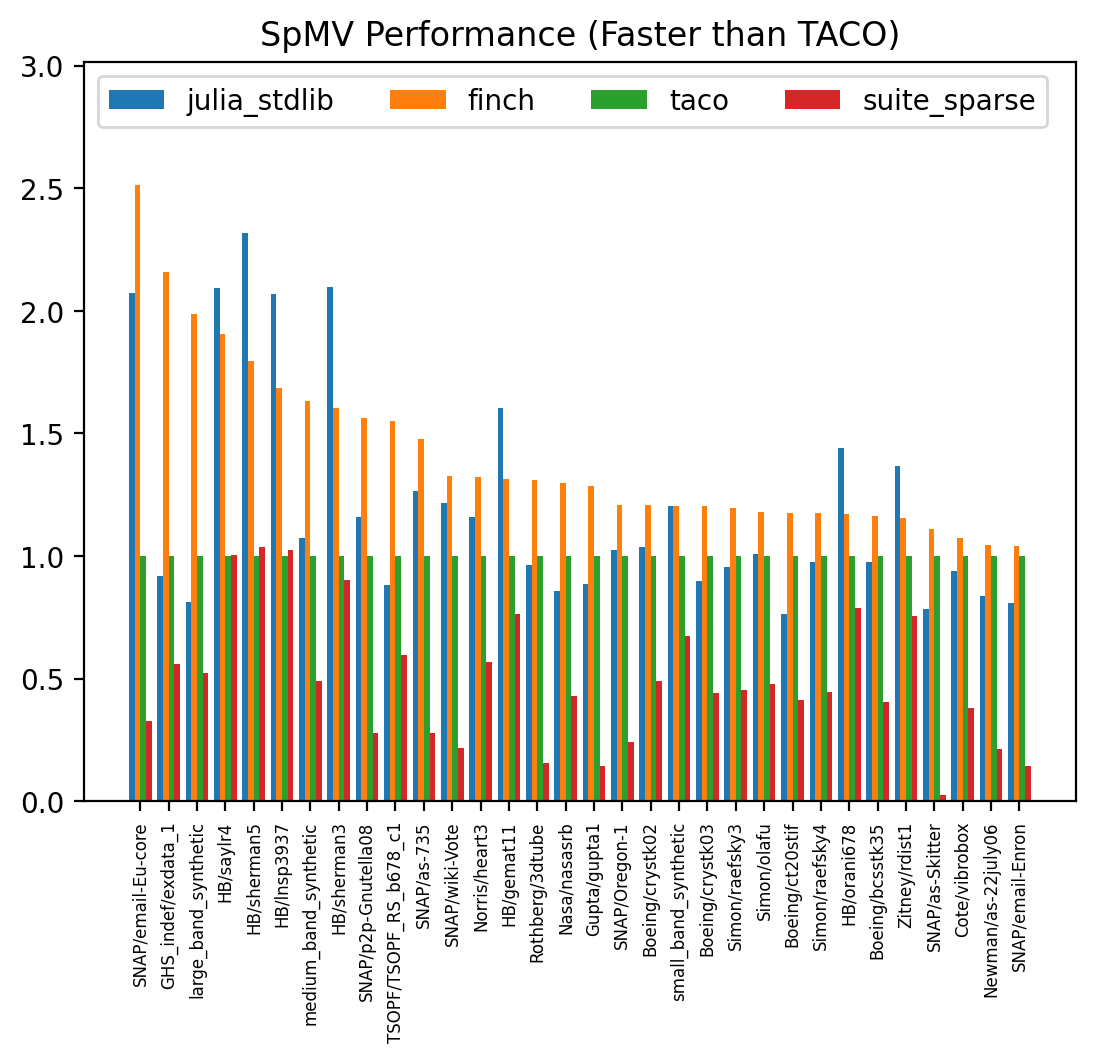
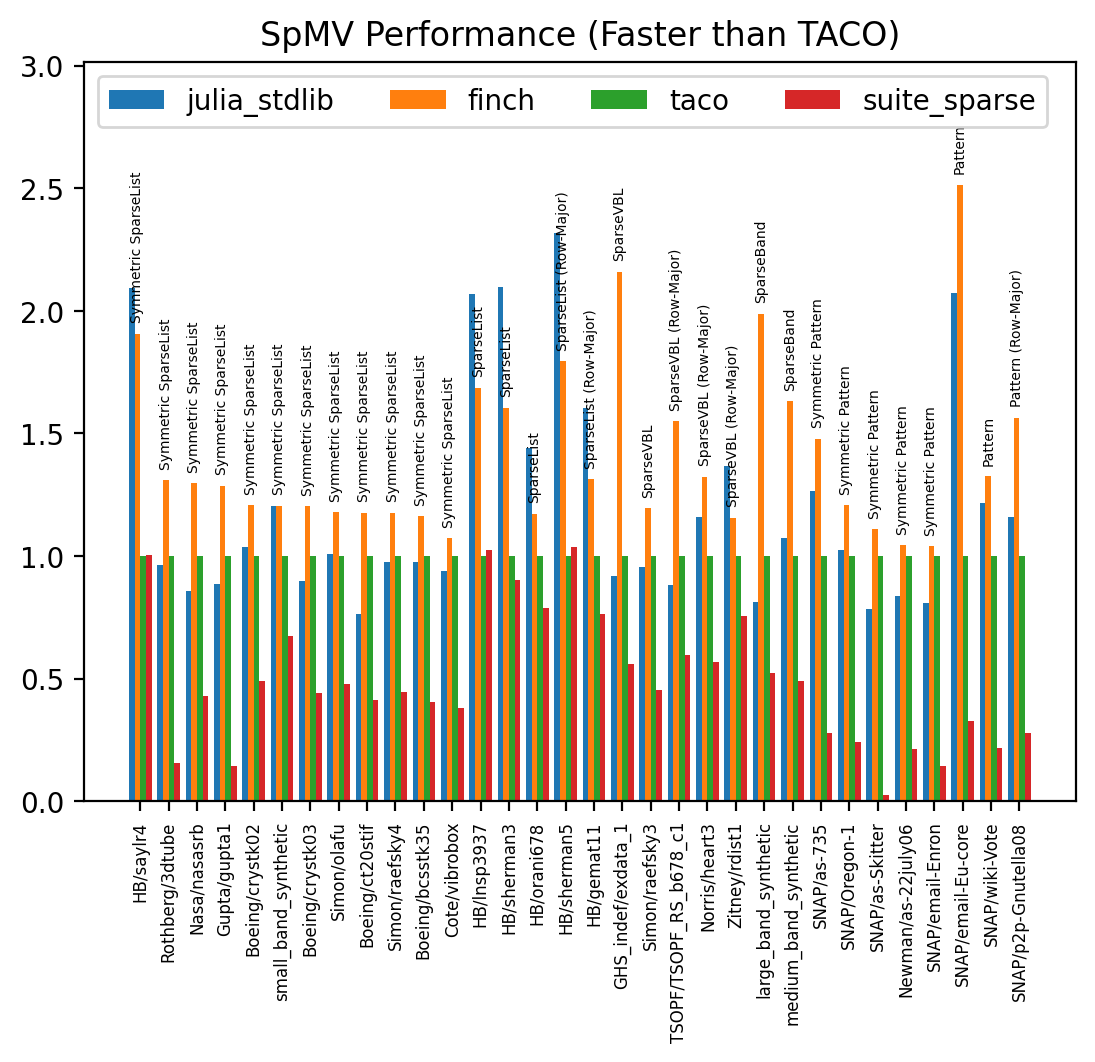
A few more plots

diff --git a/spmv/chart.py b/spmv/chart.py
@@ -7,56 +7,82 @@ from collections import defaultdict
 
 RESULTS_FILE_PATH = "spmv_results_lanka.json"
 CHARTS_DIRECTORY = "spmv/charts_lanka2/"
-
-def sorted_idx_order(list):
-    return sorted(range(len(list)), key=lambda i: list[i], reverse=True)
-
-def rearrange_by_idx_order(list, idxs):
-    return sorted(list, key=lambda x: idxs.index(list.index(x)))
-
-def find_first_idx_below_value(reverse_sorted_list, value):
-    for i in range(len(reverse_sorted_list)):
-        if reverse_sorted_list[i] < value:
-            return i
-    return -1
+FORMAT_ORDER = {
+    "finch": -1,
+    "finch_unsym": -2,
+    "finch_unsym_row_maj": -3,
+    "finch_vbl": -4,
+    "finch_vbl_unsym": -5,
+    "finch_vbl_unsym_row_maj": -6,
+    "finch_band": -7,
+    "finch_band_unsym": -8,
+    "finch_band_unsym_row_maj": -9,
+    "finch_pattern": -10,
+    "finch_pattern_unsym": -11,
+    "finch_pattern_unsym_row_maj": -12,
+    "finch_point": -13,
+    "finch_point_row_maj": -14,
+    "finch_point_pattern": -15,
+    "finch_point_pattern_row_maj": -16,
+}
+FORMAT_LABELS = {
+    "finch": "Symmetric SparseList",
+    "finch_unsym": "SparseList",
+    "finch_unsym_row_maj": "SparseList (Row-Major)",
+    "finch_vbl": "Symmetric SparseVBL",
+    "finch_vbl_unsym": "SparseVBL",
+    "finch_vbl_unsym_row_maj": "SparseVBL (Row-Major)",
+    "finch_band": "Symmetric SparseBand",
+    "finch_band_unsym": "SparseBand",
+    "finch_band_unsym_row_maj": "SparseBand (Row-Major)",
+    "finch_pattern": "Symmetric Pattern",
+    "finch_pattern_unsym": "Pattern",
+    "finch_pattern_unsym_row_maj": "Pattern (Row-Major)",
+    "finch_point": "SparsePoint",
+    "finch_point_row_maj": "SparsePoint (Row-Major)",
+    "finch_point_pattern": "SparsePoint Pattern",
+    "finch_point_pattern_row_maj": "SparsePoint Pattern (Row-Major)",
+}
 
 def all_formats_chart():
     results = json.load(open(RESULTS_FILE_PATH, 'r'))
-    mtxs = []
-    data = defaultdict(list)
+    data = defaultdict(lambda: defaultdict(int))
     finch_formats = get_best_finch_format()
 
     for result in results:
         mtx = result["matrix"]
         method = result["method"]
-        if mtx not in mtxs:
-            mtxs.append(mtx)
 
         if "finch" in method and finch_formats[mtx] != method:
             continue
         method = "finch" if "finch" in method else method
-        data[method].append(result["time"])
+        data[mtx][method] = result["time"]
 
-    methods = ["julia_stdlib", "finch", "taco", "suite_sparse"]
-    ref_data = data["taco"]
-    for method in methods:
-        method_data = data[method]
-        data[method] = [ref_data[i] / method_data[i] for i in range(len(ref_data))] 
+    for mtx, times in data.items():
+        ref_time = times["taco"]
+        for method, time in times.items():
+            times[method] = ref_time / time
 
+    ordered_data = sorted(data.items(), key = lambda mtx_results: mtx_results[1]["finch"], reverse=True)
+    # ordered_data = sorted(data.items(), key = lambda mtx_results: (mtx_results[1]["finch"] > 1, FORMAT_ORDER[finch_formats[mtx_results[0]]], mtx_results[1]["finch"]), reverse=True)
     faster_data = defaultdict(list)
     slower_data = defaultdict(list)
-    idx_order = sorted_idx_order(data["finch"])
-    order_speedups = rearrange_by_idx_order(data["finch"], idx_order)
-    splice_idx = find_first_idx_below_value(order_speedups, 1.0)
-    for method in methods:
-        method_data = data[method]
-        method_data = rearrange_by_idx_order(method_data, idx_order)
-        faster_data[method] = method_data[:splice_idx]
-        slower_data[method] = method_data[splice_idx:]
+    splice_idx = 0
+    for i, (mtx, times) in enumerate(ordered_data):
+        for method, time in times.items():
+            if times["finch"] > 1.0:
+                splice_idx = max(splice_idx, i + 1)
+                faster_data[method].append(time)
+            else:
+                slower_data[method].append(time)
 
-    mtxs = rearrange_by_idx_order(mtxs, idx_order)
-    make_grouped_bar_chart(methods, mtxs[:splice_idx], faster_data, labeled_groups=["finch"], title="SpMV Performance (Faster than TACO)")
-    make_grouped_bar_chart(methods, mtxs[splice_idx:], slower_data, labeled_groups=["finch"], title="SpMV Performance (Slower than TACO)")
+    ordered_mtxs = [mtx for mtx, _ in ordered_data]
+    labels = [FORMAT_LABELS[finch_formats[mtx]] for mtx, _ in ordered_data]
+    methods = ["finch", "taco", "julia_stdlib", "suite_sparse"]        
+    make_grouped_bar_chart(methods, ordered_mtxs[:splice_idx], faster_data, labeled_groups=["finch"], title="SpMV Performance Sorted (Faster than TACO)")
+    make_grouped_bar_chart(methods, ordered_mtxs[splice_idx:], slower_data, labeled_groups=["finch"], title="SpMV Performance Sorted (Slower than TACO)")
+    # make_grouped_bar_chart(methods, ordered_mtxs[:splice_idx], faster_data, labeled_groups=["finch"], bar_labels_dict={"finch": labels[:splice_idx]}, title="SpMV Performance (Faster than TACO)")
+    # make_grouped_bar_chart(methods, ordered_mtxs[splice_idx:], slower_data, labeled_groups=["finch"], bar_labels_dict={"finch": labels[splice_idx:]}, title="SpMV Performance (Slower than TACO)")
 
     # for mtx in mtxs:
         # all_formats_for_matrix_chart(mtx)
@@ -141,7 +167,7 @@ def all_formats_for_matrix_chart(matrix):
     plt.close() 
 
 
-def make_grouped_bar_chart(labels, x_axis, data, labeled_groups = [], title = "", y_label = ""):
+def make_grouped_bar_chart(labels, x_axis, data, labeled_groups = [], title = "", y_label = "", bar_labels_dict={}):
     x = np.arange(len(data[labels[0]]))
     width = 0.2 
     multiplier = 0
@@ -152,8 +178,8 @@ def make_grouped_bar_chart(labels, x_axis, data, labeled_groups = [], title = ""
         max_height = max(max_height, max(label_data))
         offset = width * multiplier
         rects = ax.bar(x + offset, label_data, width, label=label)
-        bar_labels = [round(float(val), 2) if label in labeled_groups else "" for val in label_data]
-        # ax.bar_label(rects, padding=4, labels=bar_labels, fontsize=5)
+        bar_labels = bar_labels_dict[label] if (label in bar_labels_dict) else [round(float(val), 2) if label in labeled_groups else "" for val in label_data]
+        ax.bar_label(rects, padding=4, labels=bar_labels, fontsize=5, rotation=90)
         multiplier += 1
 
     ax.set_ylabel(y_label)
